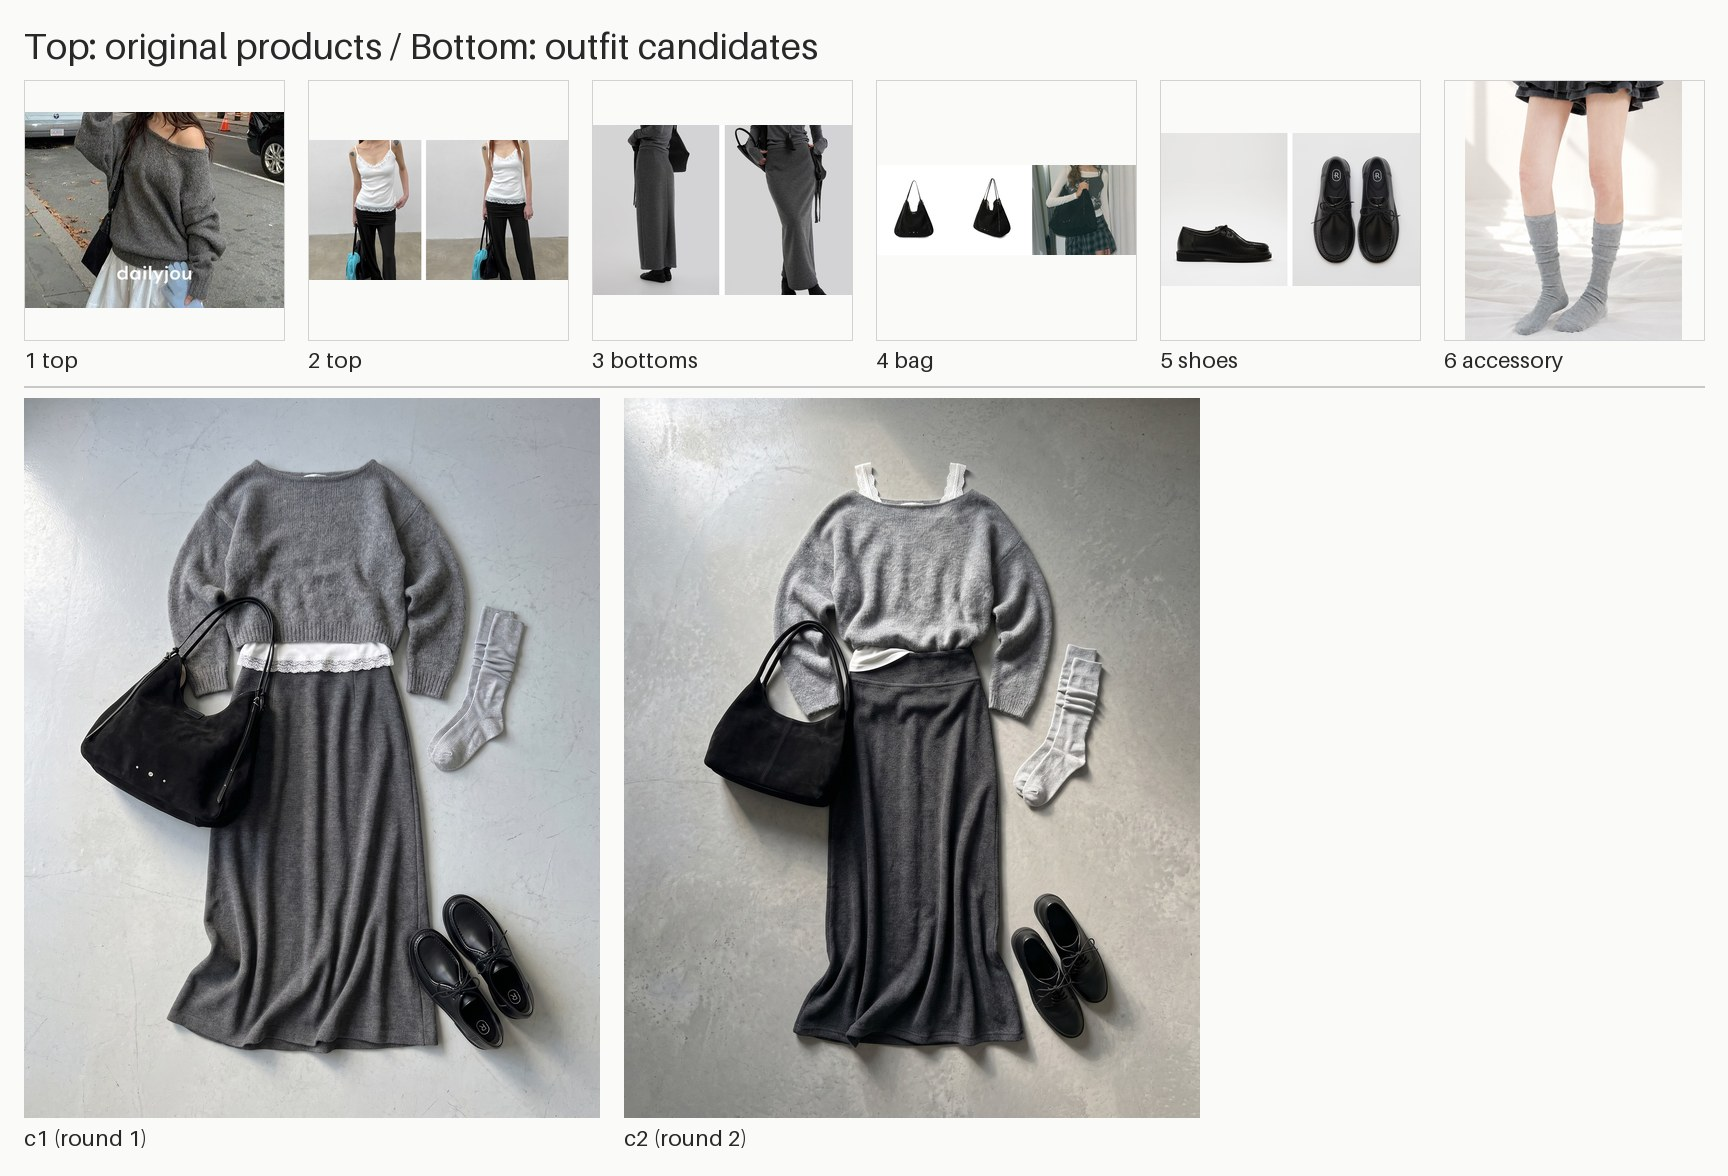
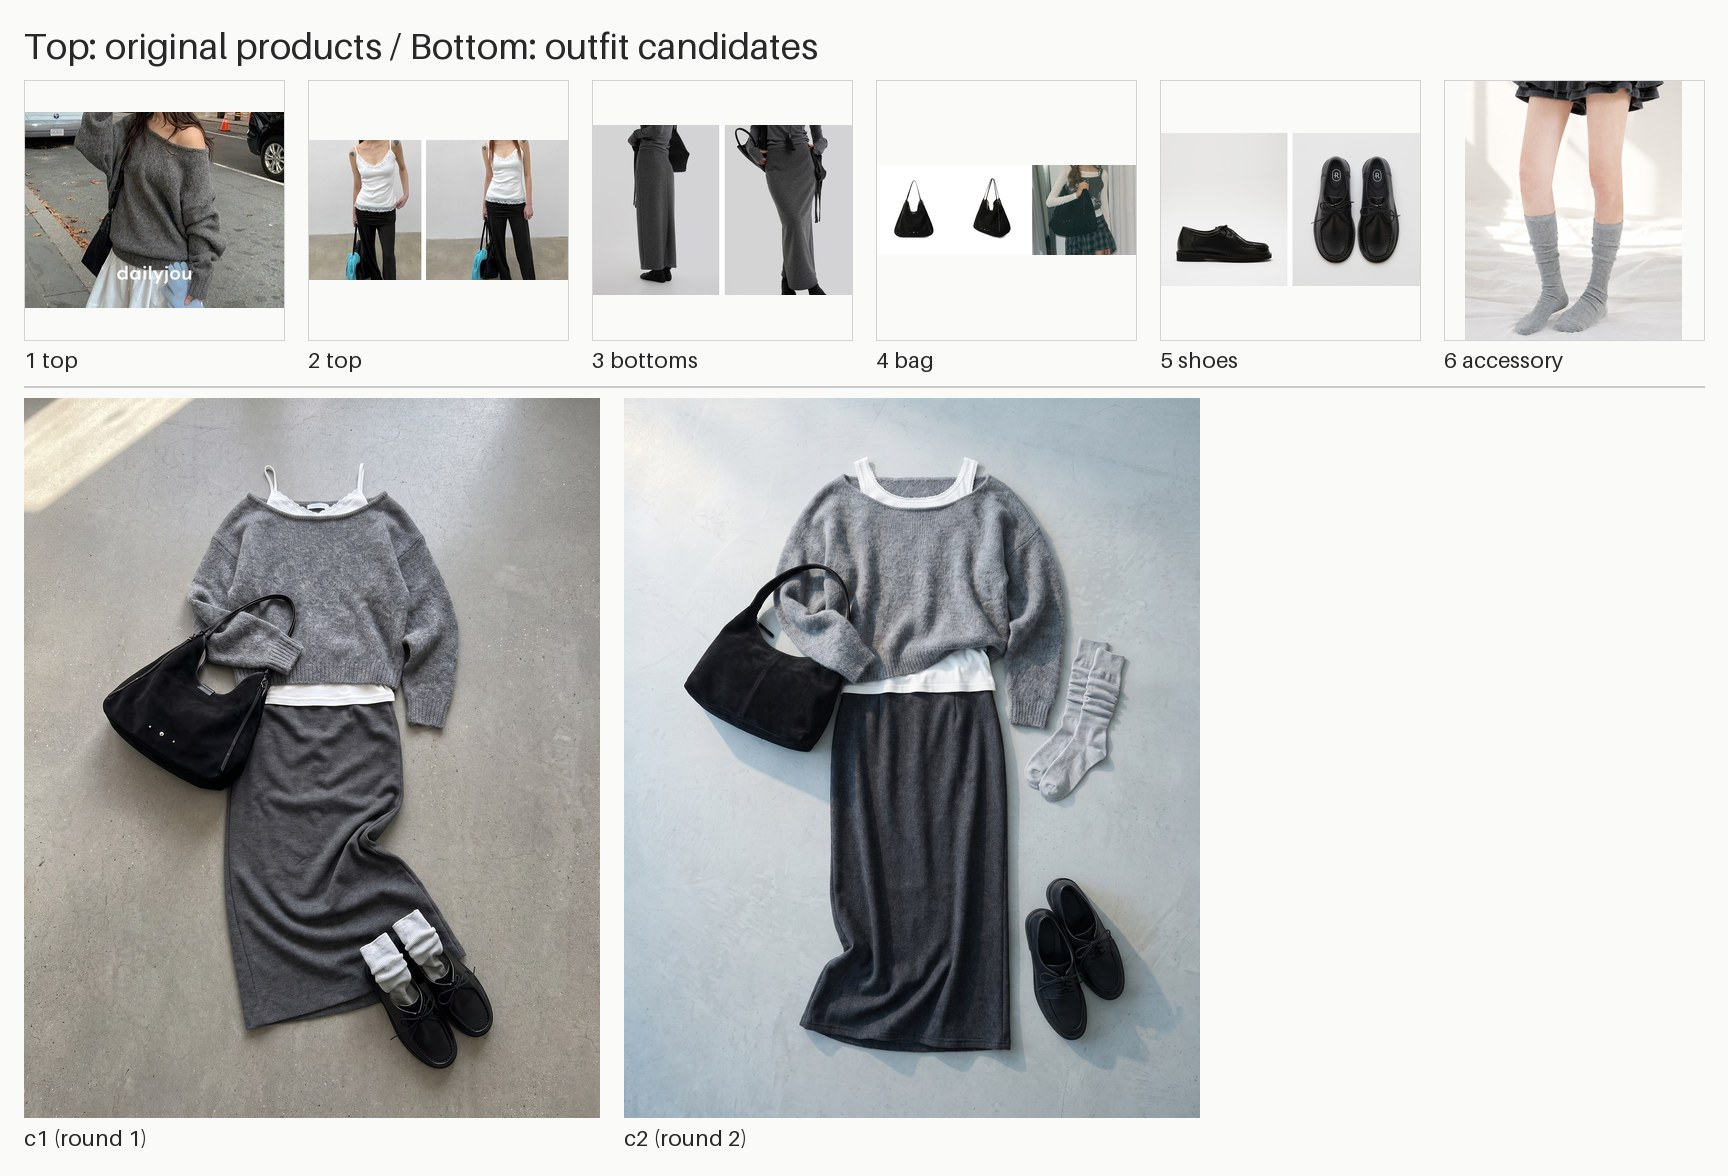
2026-10-09-run194 5번 벌: 10/8 run189 LOOK 3 그림 그대로 씀 (스레드 요청)

diff --git a/2026-10-09-run194/looks/5/report.md b/2026-10-09-run194/looks/5/report.md
@@ -1,11 +1,11 @@
 
 ## 이미지 검수: 후보 모두 기준 미달, 다시 만들기 (회차 1/2)
 
-- c1: 7/10 (color 2, shape 0, complete 2, clean 2, layout 1) 1번 니트가 힙 기장 72cm 오버핏인데 그림에서는 허리 위로 끝나는 크롭 기장에 몸판도 작아져 오버핏이 아님 (스커트 89cm 대비 짧음). 6번 니삭스가 무릎 위까지 오는 헐렁한 양말이 아니라 짧은 크루삭스처럼 보임. 4번 가방이 니트 밑단과 스커트 윗부분에 살짝 닿음.
-- 요약: c1 은 색과 신발·가방·스커트는 원본과 가깝고 깨끗하지만, 니트가 크롭으로 짧아지고 양말이 짧아져 모양이 달라서 다시 그리는 편이 낫다.
+- c1: 6/10 (color 1, shape 0, complete 2, clean 2, layout 1) 1번 니트가 힙 기장 오버핏이 아니라 허리 위로 올라오는 크롭 기장으로 작아짐 (72cm 가 나시 64cm 와 비슷해 보임). 6번 니삭스는 고른 색이 라이트 그레이인데 거의 흰색에 가깝게 나옴. 4번 가방 끈이 니트 소매 위에 걸쳐 살짝 겹침. 2번 나시는 니트 밑단 아래로 흰 띠처럼 길게 나옴.
+- 요약: c1 은 상품 구성과 개수, 신발과 스커트 모양은 원본에 가깝다. 하지만 니트가 크롭으로 줄어 shape 0 이라 통과 기준에는 못 미친다. 니트를 힙 기장 오버핏으로, 니삭스를 라이트 그레이로 다시 그려야 한다.
 
-## 이미지 검수: 통과 (회차 2/2)
+## 이미지 검수: 사람 확인 필요 (회차 2/2)
 
-- c1: 7/10 (color 2, shape 0, complete 2, clean 2, layout 1) 1번 니트가 힙 기장 72cm 오버핏인데 그림에서는 허리 위로 끝나는 크롭 기장에 몸판도 작아져 오버핏이 아님 (스커트 89cm 대비 짧음). 6번 니삭스가 무릎 위까지 오는 헐렁한 양말이 아니라 짧은 크루삭스처럼 보임. 4번 가방이 니트 밑단과 스커트 윗부분에 살짝 닿음.
-- c2: 8/10 (color 2, shape 1, complete 2, clean 2, layout 1) ← 표지 2번 나시 어깨끈이 얇은 끈이 아니라 넓은 레이스 띠로 그려졌고, 밑단 레이스도 안 보임. 1번 니트는 보트넥이 각진 넓은 목선처럼 바뀌었고 기장이 힙까지 오지 않고 치마 허리쯤에서 끝나 짧아 보임. 4번 가방이 니트 소매와 치마 왼쪽 가장자리에 걸쳐 겹침. 3번 치마, 5번 신발(한 켤레, 레이스업), 6번 양말(한 쌍)은 원본과 맞음.
-- 요약: c2 는 색, 상품 개수, 치마 기장과 소재가 원본과 맞고 글자나 없는 물건도 없다. 다만 나시 끈 모양, 니트 목선과 기장, 가방 겹침에서 작은 차이가 있어 보통 수준이다.
+- c1: 6/10 (color 1, shape 0, complete 2, clean 2, layout 1) 1번 니트가 힙 기장 오버핏이 아니라 허리 위로 올라오는 크롭 기장으로 작아짐. 6번 니삭스가 라이트 그레이가 아니라 거의 흰색으로 나옴. 4번 가방 끈이 니트 소매 위에 걸쳐 겹침. 2번 나시가 니트 밑단 아래로 흰 띠처럼 길게 나옴.
+- c2: 7/10 (color 2, shape 0, complete 2, clean 2, layout 1) ← 표지 1번 니트가 힙 기장이 아니라 스커트 허리선 위에서 끝나는 크롭 기장이고 몸판이 짧아 72cm 로 안 보임. 2번 나시는 원본의 얇은 스파게티 끈 캐미솔이 아니라 어깨끈이 넓은 나시로 바뀜. 4번 가방은 원본의 큰 삼각 호보백(끈 2개)이 아니라 작은 숄더백(끈 1개)으로 모양이 달라짐. 가방 끈과 몸체가 니트 왼쪽 소매에 겹침.
+- 요약: c2 는 색, 니삭스 한 켤레, 신발 2짝, 스커트 모양은 원본에 가깝고 지저분한 곳이 없다. 하지만 니트가 크롭으로 줄고, 나시 끈이 넓어지고, 가방 모양이 원본과 달라 shape 0 이다. c1 도 shape 0 이라 두 후보 모두 통과 기준(8점 이상, 0점 항목 없음)에 못 미친다.

diff --git a/2026-10-09-run194/looks/5/review/input.md b/2026-10-09-run194/looks/5/review/input.md
@@ -1,4 +1,4 @@
-# 이미지 검수 재료 (2026-10-09 퇴근 후 약속엔 새틴 스커트에 레더 한 방울)
+# 이미지 검수 재료 (2026-10-08 셔츠 깃 빼 입는 니트 레이어드 TIP)
 
 점수 파일 형식과 기준은 `.claude/agents/image-reviewer.md` 를 따른다.
 통과 기준: 합계 8점 이상이고 0점 항목이 없을 것.
@@ -20,7 +20,7 @@
 
 - c2: `outfit_r2/results/G_1.jpg`
 
-이미 매긴 점수: c1 7점
+이미 매긴 점수: c1 6점
 
 ## 캐러셀 상품 장
 
